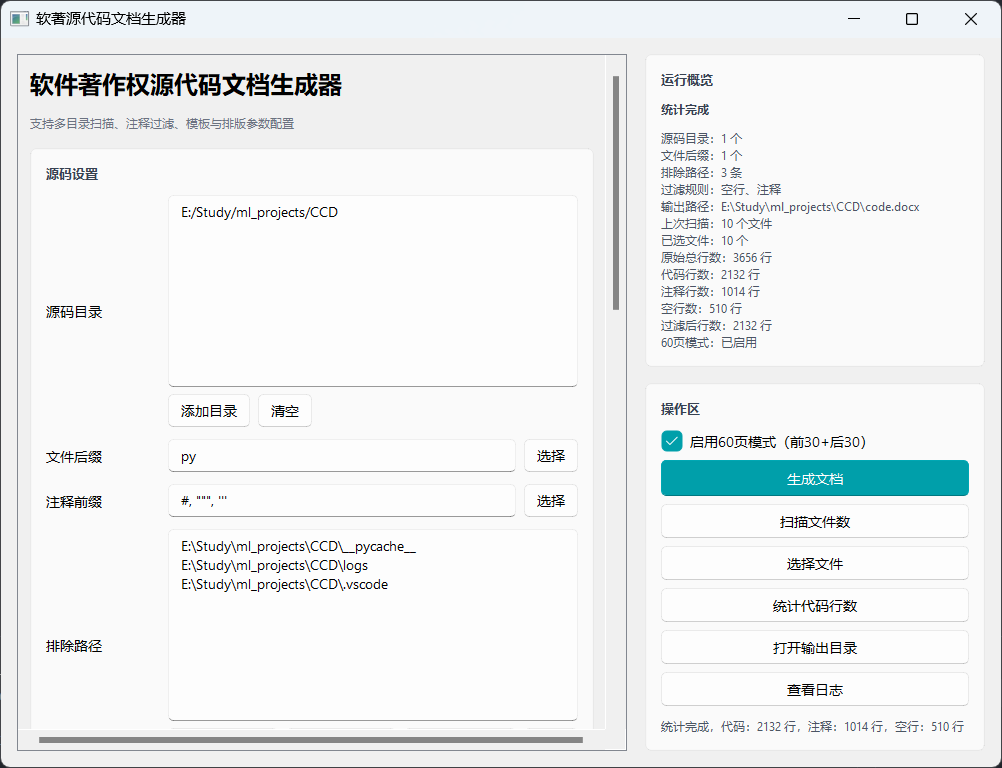
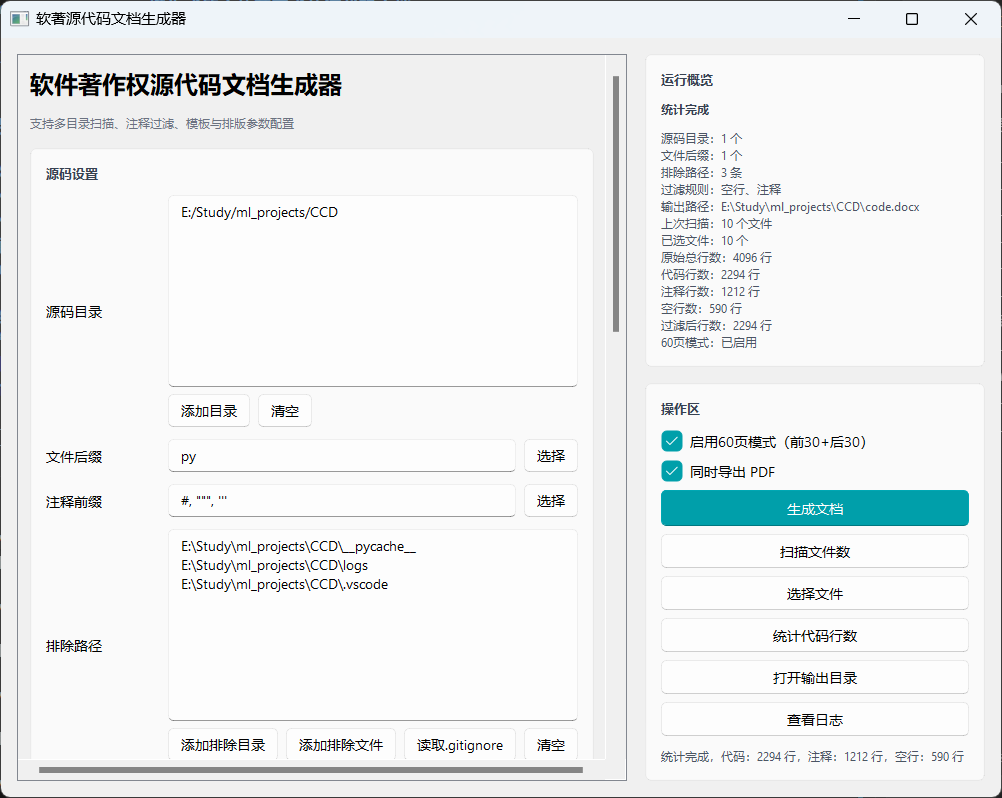
feat: add optional PDF export functionality and improve font compatibility for Chinese characters in document generation

diff --git a/doc_generator.py b/doc_generator.py
@@ -32,7 +32,8 @@ def generate_code_doc(
         left_margin=2.5, right_margin=2.5,
         header_distance=1.5, footer_distance=1.75,
         page_number_format='第 {page} 页 共 {total} 页',
-        selected_files=None, pages_60_mode=False
+        selected_files=None, pages_60_mode=False,
+        export_pdf=False
 ):
     """
     生成 docx 源代码文档
@@ -61,9 +62,10 @@ def generate_code_doc(
         page_number_format: 页码格式
         selected_files: 用户选择的文件列表（如果为 None 则使用所有文件）
         pages_60_mode: 是否启用60页模式（前30页+后30页）
+        export_pdf: 是否同时导出 PDF 文件
         
     Returns:
-        dict：包含 file_count、outfile、total_lines
+        dict：包含 file_count、outfile、total_lines，若导出 PDF 则含 pdf_path
     """
     if not indirs:
         indirs = DEFAULT_INDIRS
@@ -153,20 +155,23 @@ def generate_code_doc(
                 shutil.move(temp_path, outfile)
                 temp_path = None
                 
-                return {
+                result = {
                     'file_count': len(files),
                     'outfile': outfile,
                     'total_lines': total_lines_info,
                     'pages_60_mode': False,
                     'warning': f'60页模式失败: {error_msg}'
                 }
+                if export_pdf:
+                    result = _try_export_pdf(outfile, result)
+                return result
             
             # 执行提取
             result = extract_60_pages(temp_path, outfile)
             
             if result['success']:
                 logger.info(f"成功生成60页文档！原文档{result['total_pages']}页，新文档{result['output_pages']}页")
-                return {
+                gen_result = {
                     'file_count': len(files),
                     'outfile': outfile,
                     'total_lines': total_lines_info,
@@ -174,6 +179,9 @@ def generate_code_doc(
                     'original_pages': result['total_pages'],
                     'output_pages': result['output_pages']
                 }
+                if export_pdf:
+                    gen_result = _try_export_pdf(outfile, gen_result)
+                return gen_result
             else:
                 logger.error(f"60页模式失败: {result['message']}")
                 # 回退：保存完整文档
@@ -181,13 +189,16 @@ def generate_code_doc(
                 shutil.move(temp_path, outfile)
                 temp_path = None
                 
-                return {
+                fallback_result = {
                     'file_count': len(files),
                     'outfile': outfile,
                     'total_lines': total_lines_info,
                     'pages_60_mode': False,
                     'error': result['message']
                 }
+                if export_pdf:
+                    fallback_result = _try_export_pdf(outfile, fallback_result)
+                return fallback_result
                 
         finally:
             # 清理临时文件
@@ -203,8 +214,41 @@ def generate_code_doc(
             writer.write_file(file)
         writer.save(outfile)
     
-    return {
+    result = {
         'file_count': len(files),
         'outfile': outfile,
         'total_lines': total_lines_info
     }
+    if export_pdf:
+        result = _try_export_pdf(outfile, result)
+    return result
+
+
+def _try_export_pdf(docx_path, result_dict):
+    """
+    尝试将 docx 导出为 PDF，将结果合并到 result_dict 中。
+    失败时记录警告而非抛出异常。
+    """
+    try:
+        from word_com_helper import convert_docx_to_pdf, check_word_available
+        
+        available, error_msg = check_word_available()
+        if not available:
+            logger.warning(f"PDF 导出跳过 - Word COM 不可用: {error_msg}")
+            result_dict['pdf_warning'] = f'PDF 导出跳过: {error_msg}'
+            return result_dict
+        
+        logger.info(f"正在导出 PDF...")
+        pdf_result = convert_docx_to_pdf(docx_path)
+        
+        if pdf_result['success']:
+            logger.info(f"PDF 导出成功: {pdf_result['pdf_path']}")
+            result_dict['pdf_path'] = pdf_result['pdf_path']
+        else:
+            logger.warning(f"PDF 导出失败: {pdf_result['message']}")
+            result_dict['pdf_warning'] = pdf_result['message']
+    except Exception as e:
+        logger.warning(f"PDF 导出异常: {str(e)}")
+        result_dict['pdf_warning'] = f'PDF 导出异常: {str(e)}'
+    
+    return result_dict

diff --git a/word_com_helper.py b/word_com_helper.py
@@ -565,3 +565,123 @@ def diagnose_document_pages(docx_path):
         except:
             pass
 
+
+def convert_docx_to_pdf(docx_path, pdf_path=None):
+    """
+    将 docx 文档转换为 PDF 格式
+    
+    使用 Word COM 自动化实现高保真转换，页眉、页脚、页码、字体均完美保留。
+    
+    Args:
+        docx_path: 输入的 docx 文件路径
+        pdf_path: 输出的 PDF 文件路径，默认为同目录同名 .pdf 文件
+        
+    Returns:
+        dict: 包含操作结果的字典
+            - success: 是否成功
+            - pdf_path: 输出 PDF 的路径
+            - message: 操作信息
+    """
+    available, error_msg = check_word_available()
+    if not available:
+        return {
+            'success': False,
+            'pdf_path': None,
+            'message': f'Word COM 不可用: {error_msg}'
+        }
+    
+    docx_path = os.path.abspath(docx_path)
+    if not os.path.isfile(docx_path):
+        return {
+            'success': False,
+            'pdf_path': None,
+            'message': f'docx 文件不存在: {docx_path}'
+        }
+    
+    if pdf_path is None:
+        pdf_path = os.path.splitext(docx_path)[0] + '.pdf'
+    pdf_path = os.path.abspath(pdf_path)
+    
+    import pythoncom
+    import win32com.client
+    
+    word = None
+    doc = None
+    com_initialized = False
+    
+    try:
+        # 在子线程中需要初始化 COM
+        pythoncom.CoInitialize()
+        com_initialized = True
+        
+        logger.info(f"启动 Word 进行 PDF 转换...")
+        word = win32com.client.DispatchEx("Word.Application")
+        word.Visible = False
+        word.DisplayAlerts = False
+        
+        logger.info(f"打开文档: {docx_path}")
+        doc = word.Documents.Open(docx_path, ReadOnly=True)
+        
+        logger.info(f"导出 PDF: {pdf_path}")
+        doc.ExportAsFixedFormat(
+            OutputFileName=pdf_path,
+            ExportFormat=17,  # wdExportFormatPDF
+        )
+        
+        # ExportAsFixedFormat 后 COM 连接可能断开，Close 失败是正常的
+        try:
+            doc.Close(False)
+            doc = None
+        except Exception:
+            doc = None
+        
+        # 以 PDF 文件是否实际存在来判断成功
+        if os.path.isfile(pdf_path) and os.path.getsize(pdf_path) > 0:
+            logger.info(f"PDF 导出成功: {pdf_path}")
+            return {
+                'success': True,
+                'pdf_path': pdf_path,
+                'message': 'PDF 导出成功'
+            }
+        else:
+            logger.error("PDF 文件未生成或为空")
+            return {
+                'success': False,
+                'pdf_path': None,
+                'message': 'PDF 文件未生成'
+            }
+        
+    except Exception as e:
+        logger.error(f"PDF 转换失败: {str(e)}", exc_info=True)
+        # 即使异常，也检查 PDF 是否已经生成
+        if os.path.isfile(pdf_path) and os.path.getsize(pdf_path) > 0:
+            logger.info(f"虽然出现异常，但 PDF 已成功生成: {pdf_path}")
+            return {
+                'success': True,
+                'pdf_path': pdf_path,
+                'message': 'PDF 导出成功（过程中有非致命异常）'
+            }
+        return {
+            'success': False,
+            'pdf_path': None,
+            'message': f'PDF 转换失败: {str(e)}'
+        }
+        
+    finally:
+        try:
+            if doc:
+                doc.Close(False)
+        except Exception:
+            pass
+        
+        try:
+            if word:
+                word.Quit()
+        except Exception:
+            pass
+        
+        if com_initialized:
+            try:
+                pythoncom.CoUninitialize()
+            except Exception:
+                pass

diff --git a/ui_main.py b/ui_main.py
@@ -1,4 +1,4 @@
-# -*- coding: utf-8 -*-
+# -*- coding: utf-8 -*-
 """
 UI主窗口模块
 包含主界面窗口和启动函数
@@ -479,6 +479,11 @@ class GeneratorWindow(QMainWindow):
         self.pages_60_check.setChecked(False)
         action_row_layout.addWidget(self.pages_60_check)
         
+        # 导出PDF开关
+        self.export_pdf_check = CheckBox('同时导出 PDF')
+        self.export_pdf_check.setChecked(False)
+        action_row_layout.addWidget(self.export_pdf_check)
+        
         self.generate_btn = PrimaryPushButton('生成文档')
         self.scan_btn = PushButton('扫描文件数')
         self.select_files_btn = PushButton('选择文件')
@@ -677,7 +682,8 @@ class GeneratorWindow(QMainWindow):
             'footer_distance': self.footer_distance_spin.value(),
             'page_number_format': page_number_format,
             'selected_files': self.selected_files if self.selected_files else None,
-            'pages_60_mode': self.pages_60_check.isChecked()
+            'pages_60_mode': self.pages_60_check.isChecked(),
+            'export_pdf': self.export_pdf_check.isChecked()
         }
 
     def schedule_extension_scan(self):
@@ -897,7 +903,17 @@ class GeneratorWindow(QMainWindow):
         self.status_label.setText('生成完成，共写入 {} 个文件，{} 行代码'.format(
             result.get('file_count', 0), total_lines))
         self.summary_title.setText('生成完成')
-        self._notify('success', '生成完成', '输出文件：{}'.format(result.get('outfile', '')))
+        
+        # 检查 PDF 导出结果
+        pdf_path = result.get('pdf_path')
+        pdf_warning = result.get('pdf_warning')
+        if pdf_path:
+            self._notify('success', '生成完成', '输出文件：{}\nPDF：{}'.format(
+                result.get('outfile', ''), pdf_path))
+        elif pdf_warning:
+            self._notify('warning', '文档已生成，PDF导出失败', pdf_warning)
+        else:
+            self._notify('success', '生成完成', '输出文件：{}'.format(result.get('outfile', '')))
         self._update_open_output_enabled()
 
     def handle_failed(self, message):

diff --git a/doc_writer.py b/doc_writer.py
@@ -7,6 +7,7 @@ from code_processor import (
     DEFAULT_COMMENT_CHARS, decode_content,
     get_language_by_extension, filter_lines
 )
+from docx.oxml.ns import qn
 
 
 def load_docx_dependencies():
@@ -191,6 +192,7 @@ class CodeWriter:
                 run = footer_para.add_run(parts[0])
                 run.font.name = self.header_font
                 run.font.size = self._Pt(self.header_font_size)
+                run._element.rPr.rFonts.set(qn('w:eastAsia'), self.header_font)
             
             # 添加当前页码域
             fld_simple = OxmlElement('w:fldSimple')
@@ -219,6 +221,7 @@ class CodeWriter:
                     run = footer_para.add_run(mid_parts[0])
                     run.font.name = self.header_font
                     run.font.size = self._Pt(self.header_font_size)
+                    run._element.rPr.rFonts.set(qn('w:eastAsia'), self.header_font)
                 
                 # 添加总页数域
                 fld_simple2 = OxmlElement('w:fldSimple')
@@ -245,11 +248,13 @@ class CodeWriter:
                     run = footer_para.add_run(mid_parts[1])
                     run.font.name = self.header_font
                     run.font.size = self._Pt(self.header_font_size)
+                    run._element.rPr.rFonts.set(qn('w:eastAsia'), self.header_font)
         else:
             # 简单文本格式
             run = footer_para.add_run(self.page_number_format)
             run.font.name = self.header_font
             run.font.size = self._Pt(self.header_font_size)
+            run._element.rPr.rFonts.set(qn('w:eastAsia'), self.header_font)
         
         return self
 
@@ -271,6 +276,8 @@ class CodeWriter:
             run = paragraph.add_run(line.rstrip())
             run.font.name = self.font_name
             run.font.size = self._Pt(self.font_size)
+            # 同时设置东亚字体，避免中文字符回退到默认字体导致混排
+            run._element.rPr.rFonts.set(qn('w:eastAsia'), self.font_name)
             self.total_lines += 1
         return self
     

diff --git a/cli.py b/cli.py
@@ -77,6 +77,10 @@ from doc_generator import generate_code_doc
     help='保留注释行'
 )
 @click.option(
+    '--pdf', is_flag=True,
+    help='同时导出PDF文件'
+)
+@click.option(
     '--gui', is_flag=True,
     help='启动图形界面'
 )
@@ -88,7 +92,7 @@ def main(
         space_after, line_spacing,
         excludes, outfile, template_path,
         encoding, keep_blank_lines,
-        keep_comment_lines, gui, verbose
+        keep_comment_lines, pdf, gui, verbose
 ):
     if gui:
         from ui_main import launch_gui
@@ -117,7 +121,8 @@ def main(
         template_path=template_path,
         skip_blank_lines=not keep_blank_lines,
         skip_comment_lines=not keep_comment_lines,
-        encoding=encoding
+        encoding=encoding,
+        export_pdf=pdf
     )
     return 0
 
